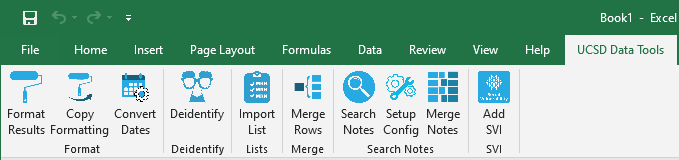
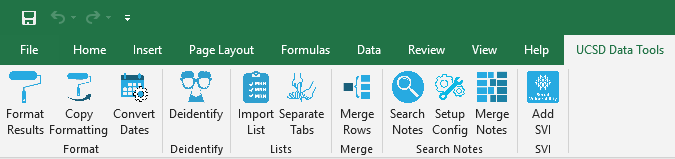
Include new ListChopper app.

diff --git a/README.md b/README.md
@@ -8,10 +8,11 @@ Creates custom buttons in Microsoft Excel & Word that allow user to:
 ![image info](./DECS%20Excel%20Add-Ins/pictures/toolbar.png) 
 
 * Format a page of results with bold & centered header, NULLs grayed out, etc.
-* Copy the formatting from one sheet onto the next.
+* Copy the formatting from one sheet onto the next sheet(s).
 * Convert dates from [MUMPS](https://en.wikipedia.org/wiki/MUMPS) to Excel standard.
 * Generate unique, scrambled identifiers from patient or user data.
 * Turn a list (of MRNs, ICD codes, etc.) into a SQL snippet that imports the column into a query.
+* Break up a long spreadsheet into individual sheets, using the value of one column.
 * Merge rows across dates.
 * Scan `Notes` fields for keywords, creating new columns.
 * Merge notes from one sheet into another according to some index column (like CSN).
